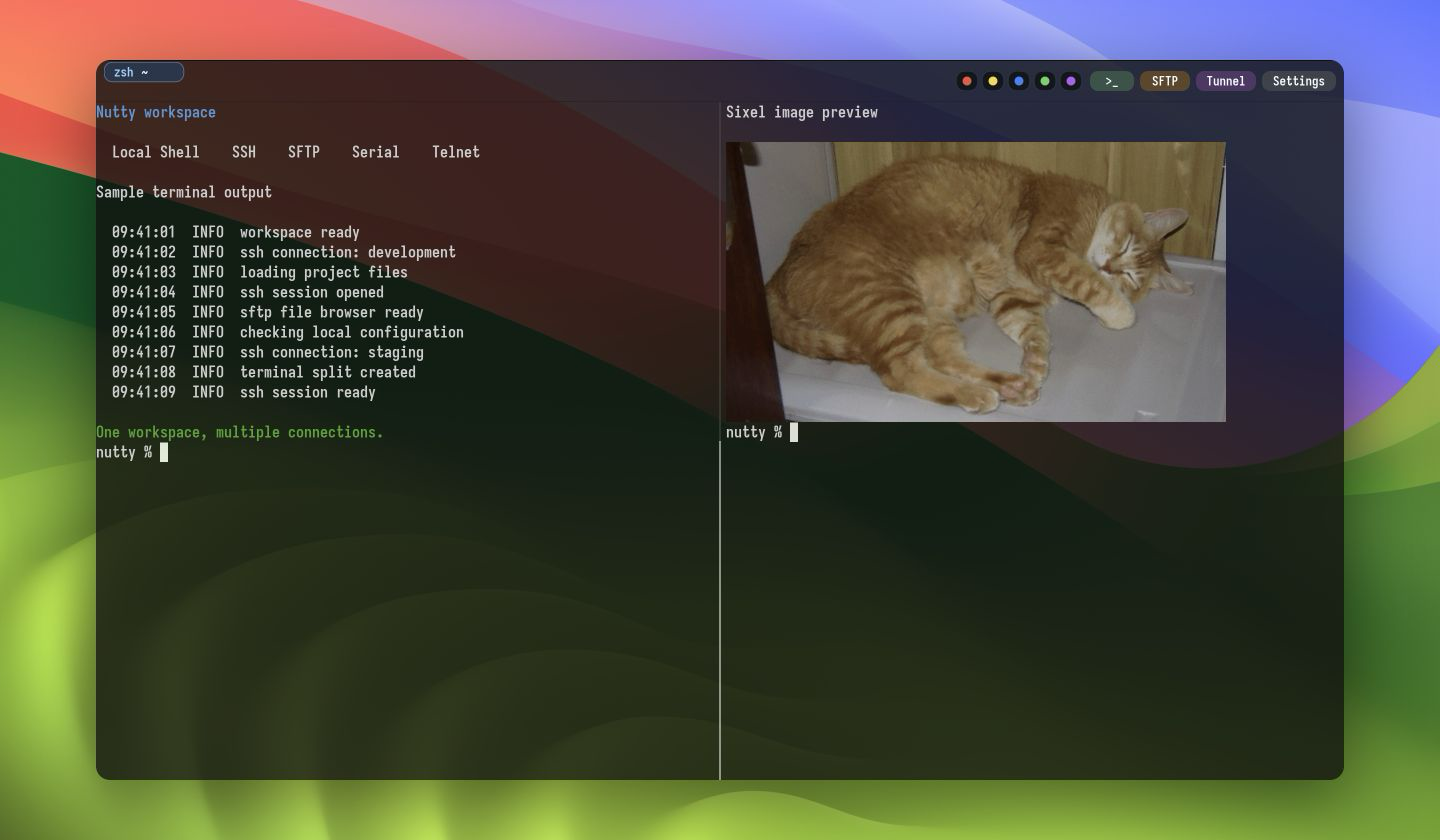
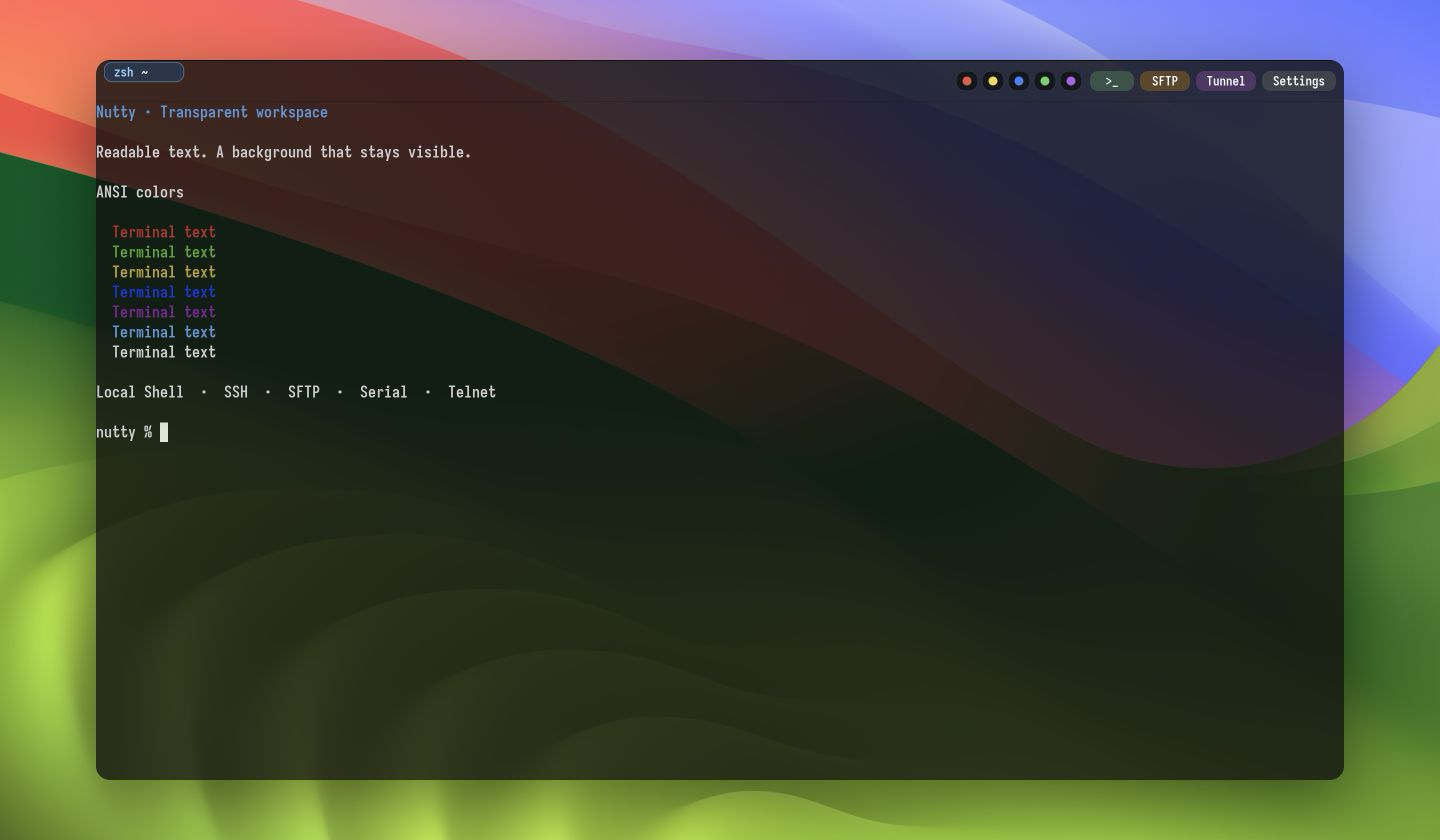
docs: use distinct feature screenshots and show Zmodem file picker

diff --git a/README.md b/README.md
@@ -68,7 +68,9 @@ Nutty 是一个使用 **C / C++** 构建的原生终端应用，支持 macOS、W
 - Sixel 图片随终端内容一起滚动。
 - **Zmodem**：内置 `rz` / `sz` 文件传输，支持多层 SSH 跳板场景。
 
-![Nutty：Sixel 图片与本地终端并排显示](sixel.png)
+![Nutty：Sixel 终端图片预览](sixel.png)
+
+![Nutty：Zmodem 文件选择框与完整终端窗口](zmodem.png)
 
 ## 背景透明度
 
